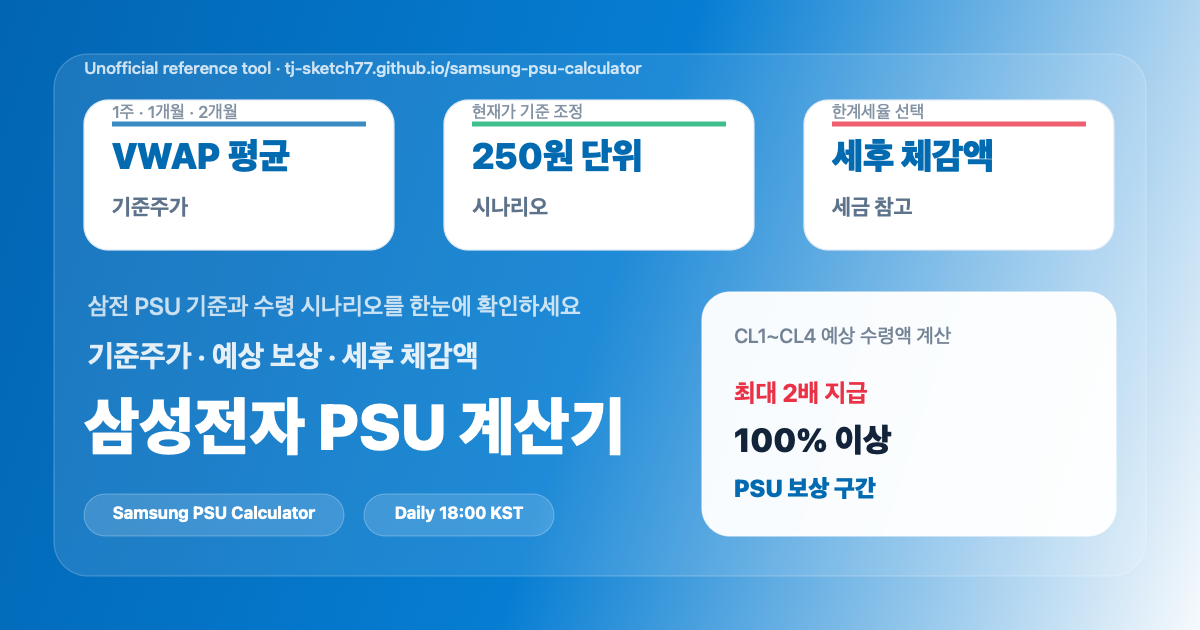
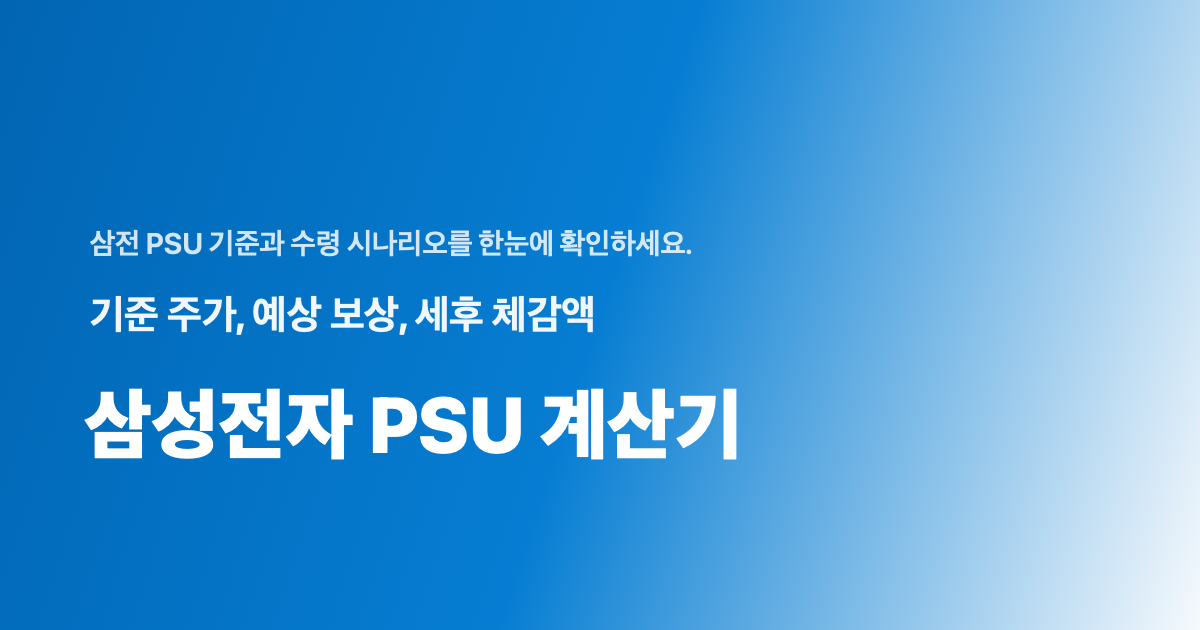
Simplify social share thumbnail

diff --git a/scripts/generate_og_image.swift b/scripts/generate_og_image.swift
@@ -24,36 +24,6 @@ func drawText(_ text: String, rect: CGRect, size: CGFloat, weight: NSFont.Weight
     NSString(string: text).draw(in: rect, withAttributes: attrs)
 }
 
-func roundedRect(_ rect: CGRect, radius: CGFloat, fill: NSColor, stroke: NSColor? = nil, lineWidth: CGFloat = 1) {
-    let path = NSBezierPath(roundedRect: rect, xRadius: radius, yRadius: radius)
-    fill.setFill()
-    path.fill()
-    if let stroke {
-        stroke.setStroke()
-        path.lineWidth = lineWidth
-        path.stroke()
-    }
-}
-
-func drawBadge(_ text: String, x: CGFloat, y: CGFloat, width: CGFloat) {
-    let rect = CGRect(x: x, y: y, width: width, height: 42)
-    roundedRect(rect, radius: 21, fill: NSColor.white.withAlphaComponent(0.15), stroke: NSColor.white.withAlphaComponent(0.28))
-    drawText(text, rect: rect.insetBy(dx: 18, dy: 9), size: 17, weight: .bold, color: .white, align: .center)
-}
-
-func drawMetric(title: String, value: String, footnote: String, rect: CGRect, accent: NSColor) {
-    roundedRect(rect, radius: 24, fill: .white, stroke: color(0xd9e4f2), lineWidth: 1.2)
-    drawText(title, rect: CGRect(x: rect.minX + 28, y: rect.minY + 26, width: rect.width - 56, height: 30), size: 22, weight: .bold, color: color(0x4b5f78))
-    drawText(value, rect: CGRect(x: rect.minX + 28, y: rect.minY + 64, width: rect.width - 56, height: 52), size: 36, weight: .heavy, color: color(0x0b55a0))
-    drawText(footnote, rect: CGRect(x: rect.minX + 28, y: rect.minY + 122, width: rect.width - 56, height: 26), size: 17, weight: .medium, color: color(0x6f7f91))
-    let line = NSBezierPath()
-    line.move(to: CGPoint(x: rect.minX + 28, y: rect.maxY - 24))
-    line.line(to: CGPoint(x: rect.maxX - 28, y: rect.maxY - 24))
-    accent.withAlphaComponent(0.78).setStroke()
-    line.lineWidth = 5
-    line.stroke()
-}
-
 guard let bitmap = NSBitmapImageRep(
     bitmapDataPlanes: nil,
     pixelsWide: width,
@@ -77,28 +47,27 @@ let bounds = CGRect(x: 0, y: 0, width: width, height: height)
 let bg = NSGradient(colors: [color(0x0a4fa3), color(0x0f67c8), color(0xf4f8fc)])!
 bg.draw(in: bounds, angle: -18)
 
-roundedRect(CGRect(x: 54, y: 54, width: 1092, height: 522), radius: 34, fill: NSColor.white.withAlphaComponent(0.1), stroke: NSColor.white.withAlphaComponent(0.22), lineWidth: 1.2)
-
-drawBadge("Samsung PSU Calculator", x: 84, y: 94, width: 260)
-drawBadge("Daily 18:00 KST", x: 364, y: 94, width: 190)
-
-drawText("삼성전자 PSU 계산기", rect: CGRect(x: 84, y: 164, width: 690, height: 78), size: 64, weight: .heavy, color: .white)
-drawText("기준주가 · 예상 보상 · 세후 체감액", rect: CGRect(x: 88, y: 250, width: 690, height: 42), size: 30, weight: .bold, color: NSColor.white.withAlphaComponent(0.88))
-drawText("삼전 PSU 기준과 수령 시나리오를 한눈에 확인하세요", rect: CGRect(x: 88, y: 304, width: 690, height: 34), size: 24, weight: .medium, color: NSColor.white.withAlphaComponent(0.76))
-
-let panel = CGRect(x: 702, y: 94, width: 414, height: 244)
-roundedRect(panel, radius: 28, fill: NSColor.white.withAlphaComponent(0.96), stroke: NSColor.white.withAlphaComponent(0.75), lineWidth: 1.2)
-drawText("PSU 보상 구간", rect: CGRect(x: 734, y: 126, width: 260, height: 30), size: 24, weight: .heavy, color: color(0x0b55a0))
-drawText("100% 이상", rect: CGRect(x: 734, y: 172, width: 170, height: 38), size: 33, weight: .heavy, color: color(0x101a2b))
-drawText("최대 2배 지급", rect: CGRect(x: 734, y: 220, width: 220, height: 32), size: 25, weight: .bold, color: color(0xe31837))
-drawText("CL1~CL4 예상 수령액 계산", rect: CGRect(x: 734, y: 278, width: 330, height: 28), size: 20, weight: .medium, color: color(0x617184))
-
-let cardY: CGFloat = 380
-drawMetric(title: "기준주가", value: "VWAP 평균", footnote: "1주 · 1개월 · 2개월", rect: CGRect(x: 84, y: cardY, width: 310, height: 150), accent: color(0x0b55a0))
-drawMetric(title: "시나리오", value: "250원 단위", footnote: "현재가 기준 조정", rect: CGRect(x: 444, y: cardY, width: 310, height: 150), accent: color(0x18a058))
-drawMetric(title: "세금 참고", value: "세후 체감액", footnote: "한계세율 선택", rect: CGRect(x: 804, y: cardY, width: 310, height: 150), accent: color(0xe31837))
-
-drawText("Unofficial reference tool · tj-sketch77.github.io/samsung-psu-calculator", rect: CGRect(x: 84, y: 548, width: 680, height: 24), size: 17, weight: .medium, color: NSColor.white.withAlphaComponent(0.78))
+drawText(
+    "삼전 PSU 기준과 수령 시나리오를 한눈에 확인하세요.",
+    rect: CGRect(x: 90, y: 360, width: 980, height: 44),
+    size: 29,
+    weight: .semibold,
+    color: NSColor.white.withAlphaComponent(0.82)
+)
+drawText(
+    "기준 주가, 예상 보상, 세후 체감액",
+    rect: CGRect(x: 90, y: 288, width: 990, height: 52),
+    size: 40,
+    weight: .bold,
+    color: NSColor.white.withAlphaComponent(0.94)
+)
+drawText(
+    "삼성전자 PSU 계산기",
+    rect: CGRect(x: 84, y: 160, width: 1030, height: 92),
+    size: 78,
+    weight: .heavy,
+    color: .white
+)
 
 NSGraphicsContext.restoreGraphicsState()
 